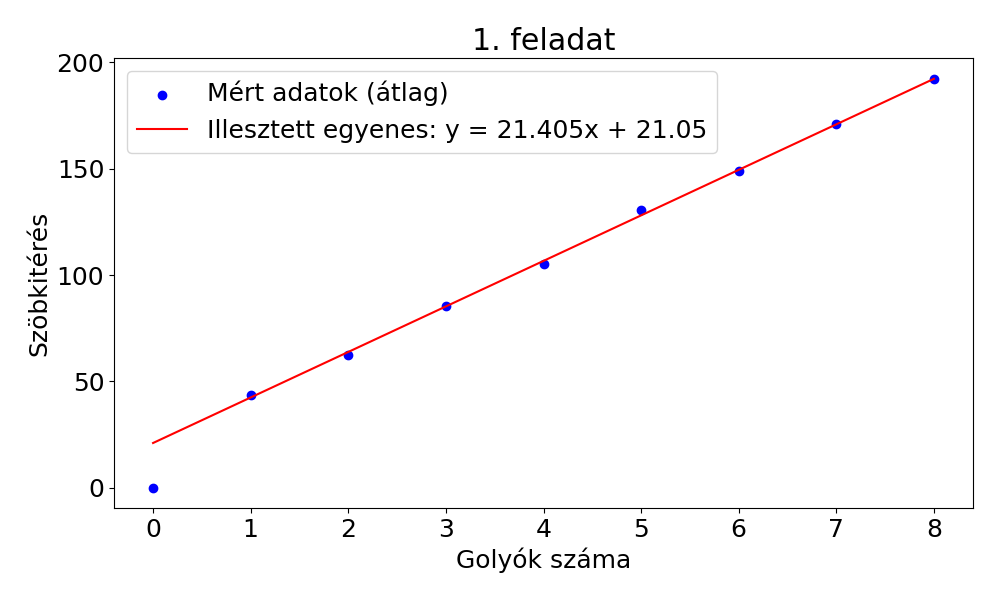
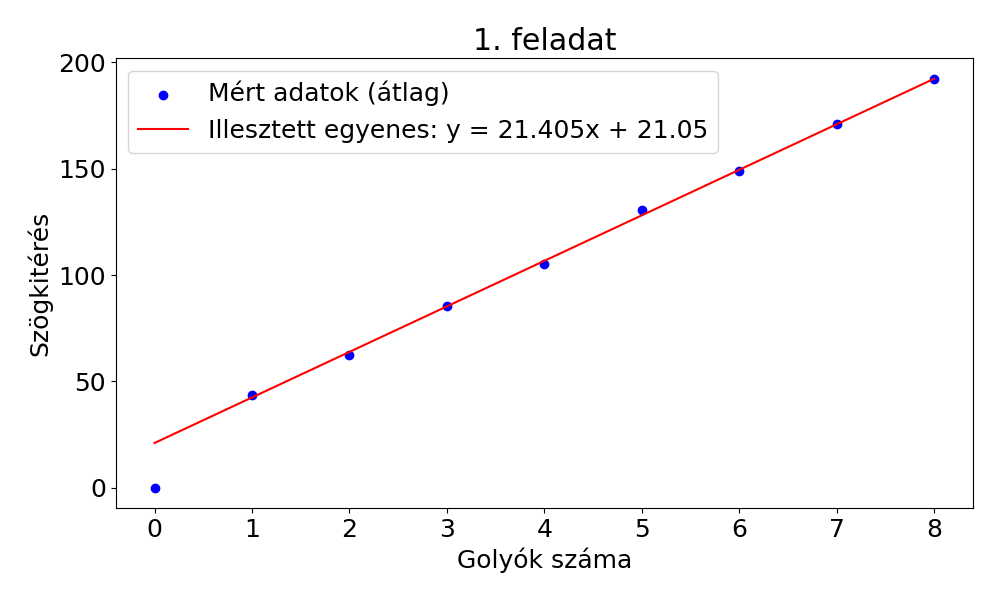
mittomen

diff --git a/MECHANIKA/1_feladat.py b/MECHANIKA/1_feladat.py
@@ -32,7 +32,7 @@ plt.plot(x, c + m*x, linestyle='-', color='r', label=f"Illesztett egyenes: y = {
 
 plt.title("1. feladat")
 plt.xlabel("Golyók száma")
-plt.ylabel("Szöbkitérés")
+plt.ylabel("Szögkitérés")
 plt.legend()
 plt.tight_layout()
 plt.savefig(os.path.join(script_dir, '1_feladat.png'))

diff --git a/MECHANIKA/1_feladat.tex b/MECHANIKA/1_feladat.tex
@@ -59,4 +59,6 @@ $m_{golyó}=4,07 g$
     \label{fig:1_feladat_diagram}
 \end{figure}
 
+Ellenőrző számításként a direkciós erőt 1.31 * 10^-4 kg m^2/(s^2)
+
 \end{document}
